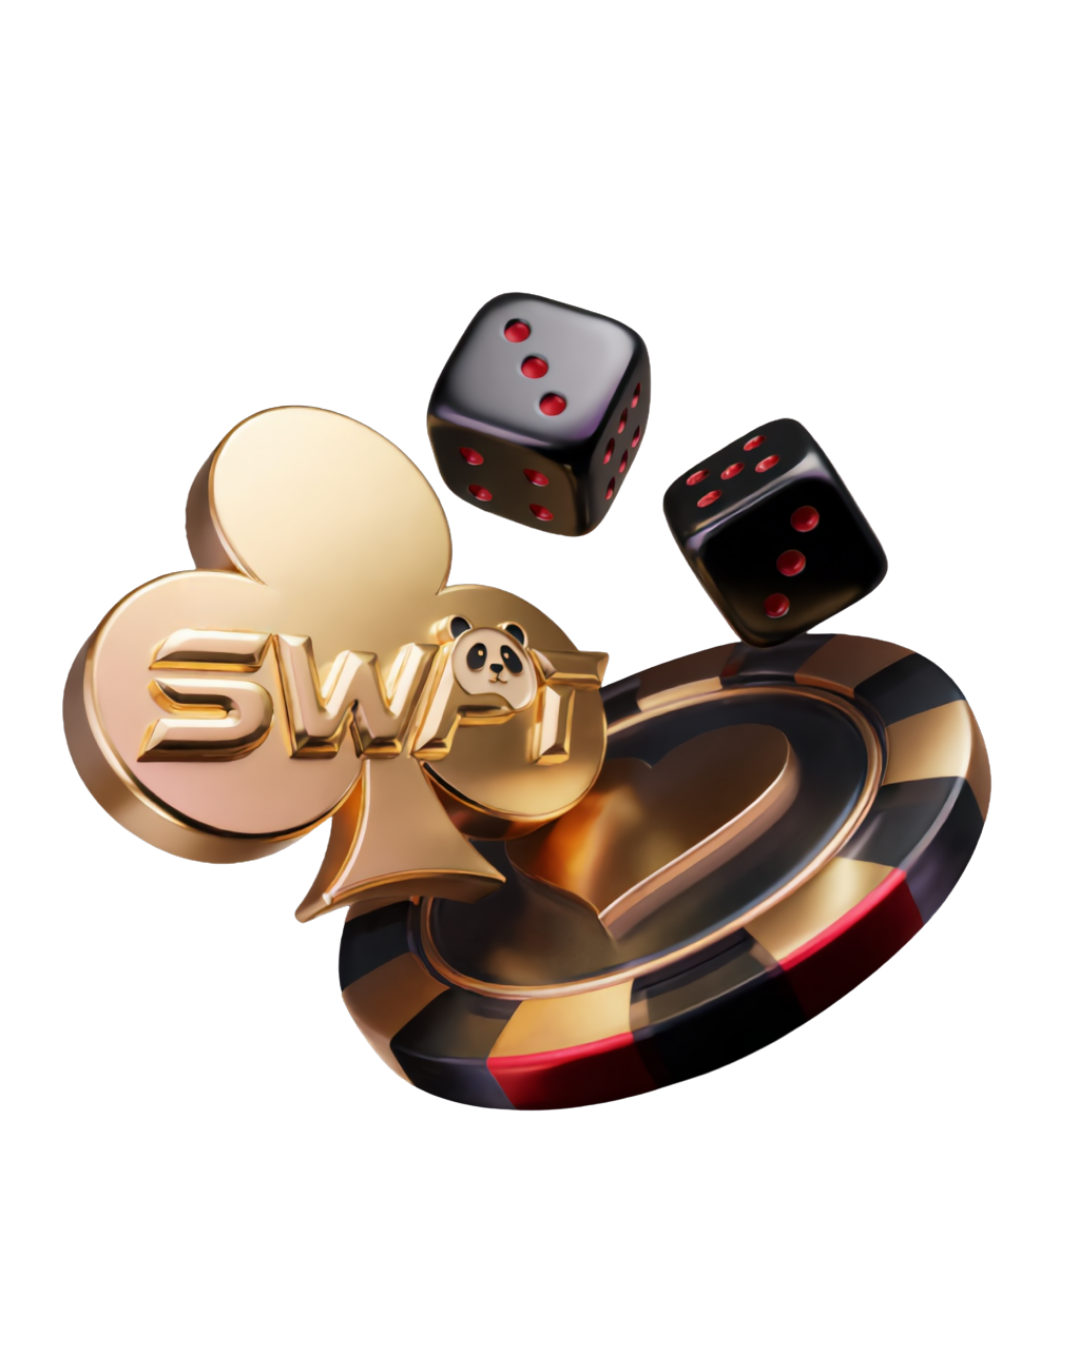
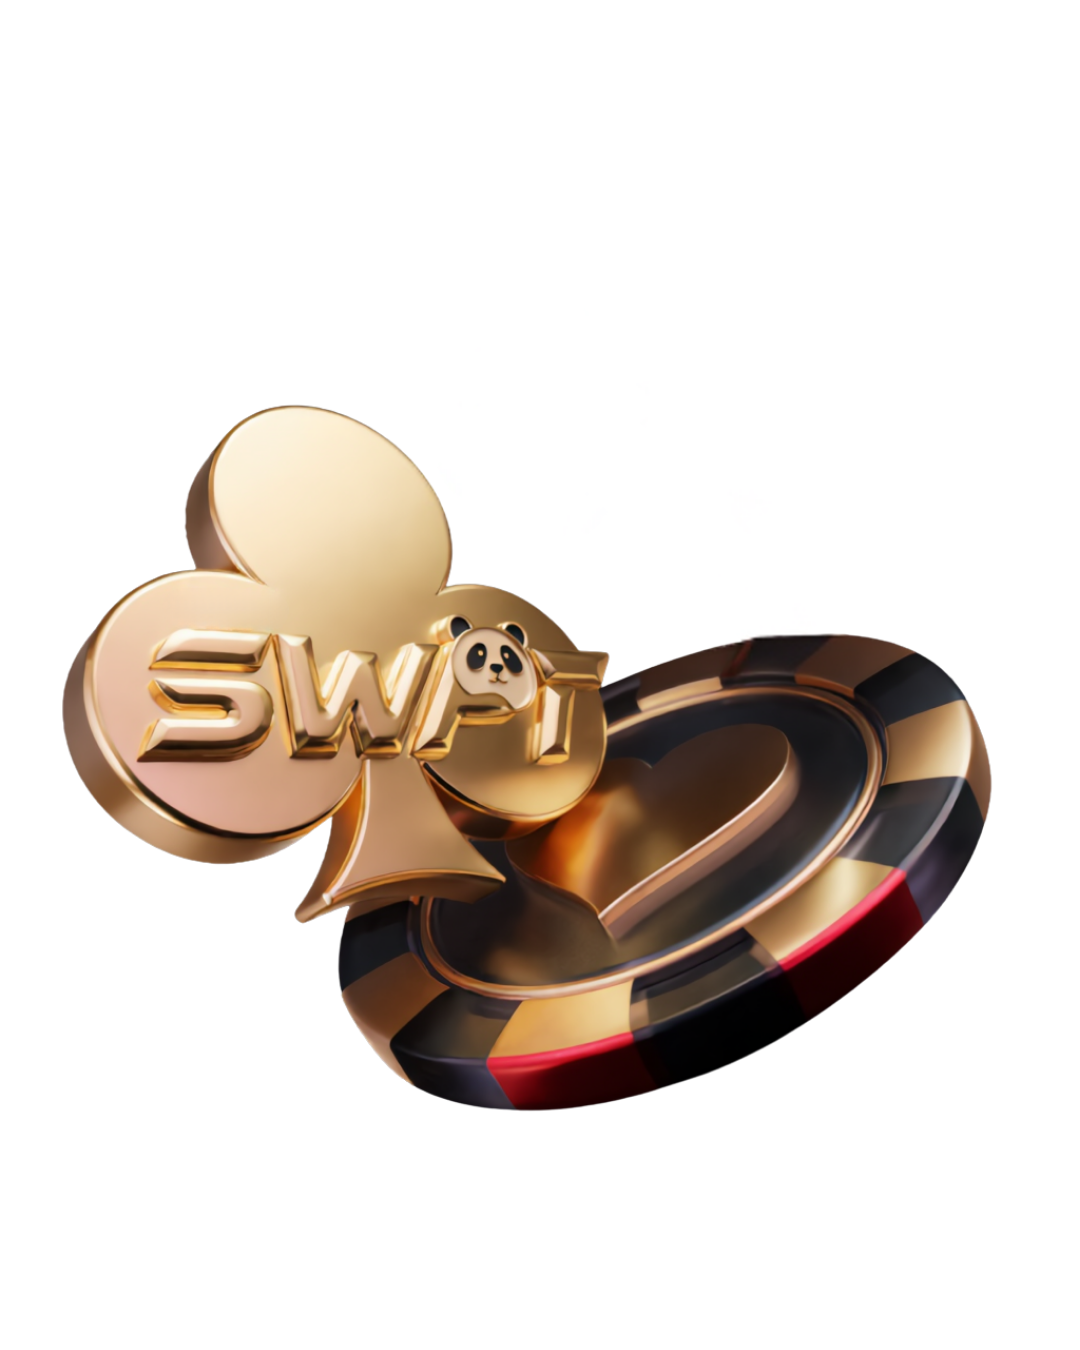
Use panda-coin as the hero centerpiece
Swap the main hero chip from coin.png (front-view 10K) to panda-coin.png
(panda mascot with dice + roulette composition). Bump the displaced
coin.png down to the bottom-left mobile floating accent so neither image
is duplicated within the hero.

Changed region(s): [[0.3972, 0.2178, 0.6111, 0.4044], [0.6111, 0.3111, 0.825, 0.4978]]

diff --git a/src/components/Hero.tsx b/src/components/Hero.tsx
@@ -48,7 +48,7 @@ export default function Hero() {
         style={{ animation: "wobble 9s ease-in-out infinite" }}
       />
       <Image
-        src="/chips/panda-coin.png"
+        src="/chips/coin.png"
         alt=""
         aria-hidden="true"
         width={400}
@@ -163,10 +163,10 @@ export default function Hero() {
               filter: "blur(24px)",
             }}
           />
-          {/* Featured 10K coin */}
+          {/* Featured panda-coin composition */}
           <Image
-            src="/chips/coin.png"
-            alt="SWPT 10,000 panda chip — front view"
+            src="/chips/panda-coin.png"
+            alt="SWPT panda-mascot chip with dice and roulette wheel"
             width={1200}
             height={1200}
             priority
